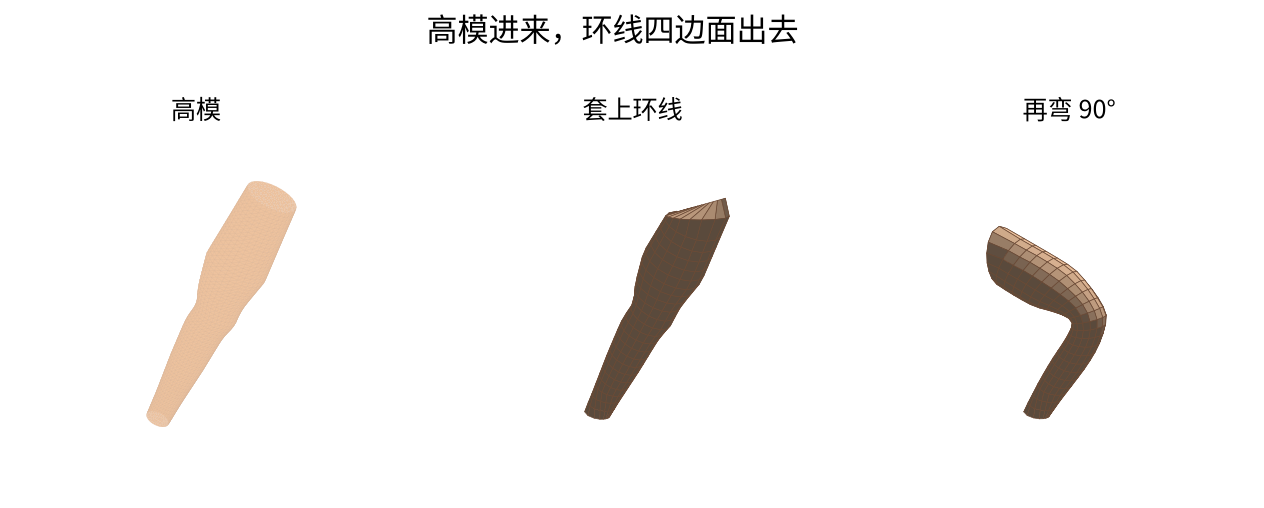
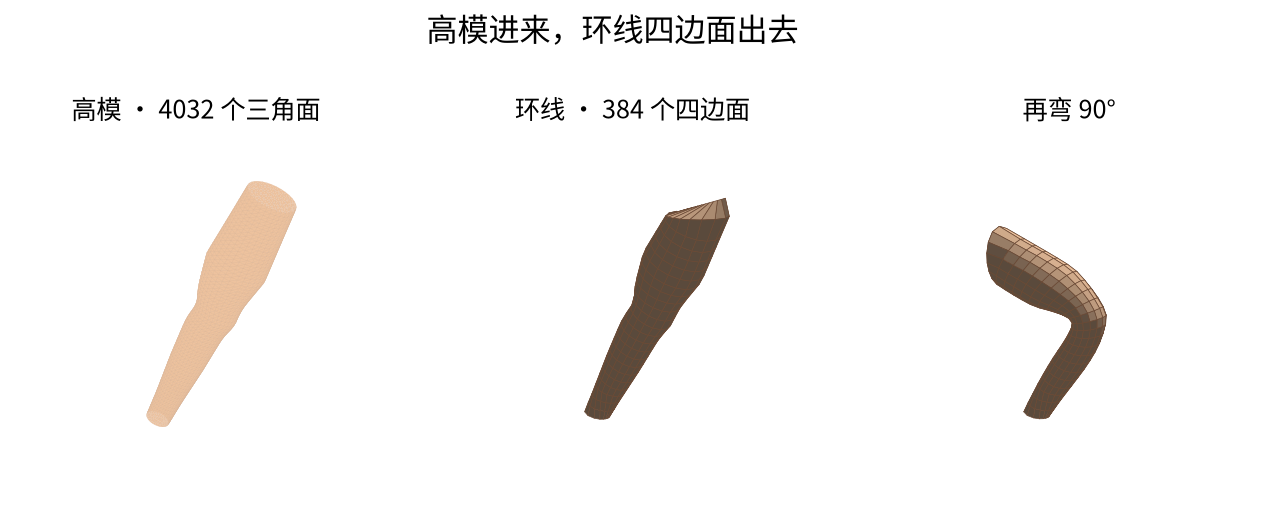
demo: label each picture with the triangle and quad counts
The gallery now says how many faces went in and how many quads came out, without a scorecard.

Changed region(s): [[0.4011, 0.1772, 0.6171, 0.2362], [0.0617, 0.1772, 0.2468, 0.2362]]

diff --git a/demo/tube_retopo.py b/demo/tube_retopo.py
@@ -236,8 +236,8 @@ def save_gallery(items: list[tuple[str, tuple, np.ndarray, np.ndarray, np.ndarra
     for row, (name, sculpt, quads_v, quads_f, bent) in enumerate(items):
         limits = bounds_of([sculpt[0], quads_v, bent], pad=0.06)
         panels = (
-            (sculpt[0], sculpt[1], SCULPT_EDGE, f"{name} · 高模"),
-            (quads_v, quads_f, QUAD_EDGE, "环线"),
+            (sculpt[0], sculpt[1], SCULPT_EDGE, f"{name} · {len(sculpt[1])} 个三角面"),
+            (quads_v, quads_f, QUAD_EDGE, f"{len(quads_f)} 个四边面"),
             (bent, quads_f, QUAD_EDGE, "弯 90°"),
         )
         for col, (verts, faces, edge, title) in enumerate(panels):
@@ -290,8 +290,8 @@ def save_preview(sculpt, quads_v, quads_f, bent, out: Path) -> None:
     limits = bounds_of([sculpt[0], quads_v, bent], pad=0.08)
     fig = plt.figure(figsize=(11.4, 4.4), facecolor="white")
     panels = (
-        (sculpt[0], sculpt[1], SCULPT_EDGE, "高模"),
-        (quads_v, quads_f, QUAD_EDGE, "套上环线"),
+        (sculpt[0], sculpt[1], SCULPT_EDGE, f"高模 · {len(sculpt[1])} 个三角面"),
+        (quads_v, quads_f, QUAD_EDGE, f"环线 · {len(quads_f)} 个四边面"),
         (bent, quads_f, QUAD_EDGE, "再弯 90°"),
     )
     for index, (verts, faces, edge, title) in enumerate(panels, start=1):
@@ -346,8 +346,8 @@ def main() -> None:
         curve_fig = plt.figure(figsize=(8.2, 4.2), facecolor="white")
         for index, (verts, faces, edge, title) in enumerate(
             (
-                (curved_v, curved_f, SCULPT_EDGE, "本来就是弯的"),
-                (curved_q, curved_faces, QUAD_EDGE, "环顺着弯走"),
+                (curved_v, curved_f, SCULPT_EDGE, f"本来就是弯的 · {len(curved_f)} 个三角面"),
+                (curved_q, curved_faces, QUAD_EDGE, f"环顺着弯走 · {len(curved_faces)} 个四边面"),
             ),
             start=1,
         ):
@@ -377,7 +377,7 @@ def main() -> None:
     save_preview((vertices, faces), quads_v, quads_f, bent, args.out)
     write_obj(args.mesh_dir / "retopo_rings.obj", quads_v, quads_f)
     write_obj(args.mesh_dir / "retopo_bent.obj", bent, quads_f)
-    print(f"quads={len(quads_f)} verts={len(quads_v)}")
+    print(f"三角面 {len(faces)} 个，套成四边面 {len(quads_f)} 个")
     print(args.out)
 
 
